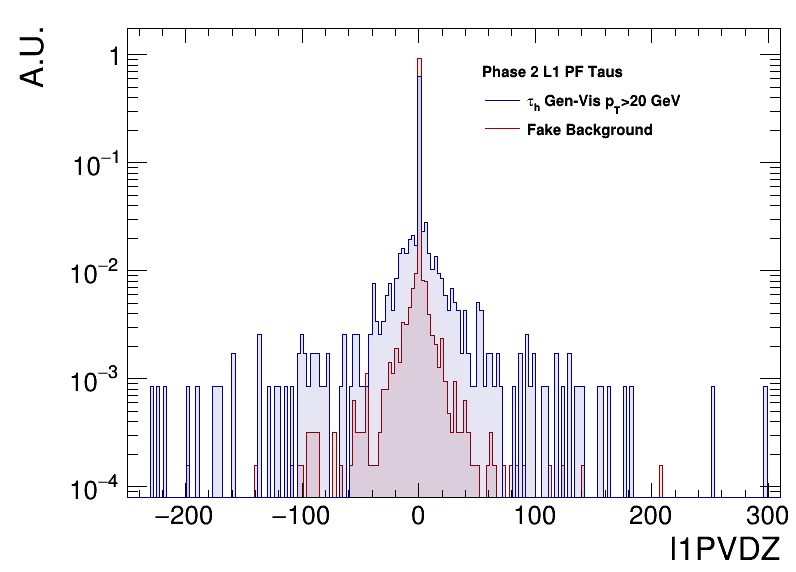
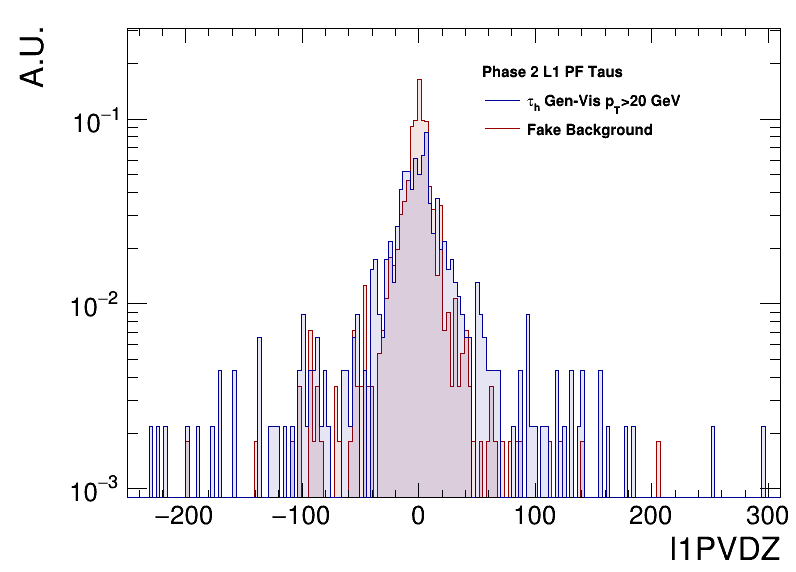
require l1Pt>0 in plots

diff --git a/tau_exercise/plot_tau_features/runValidationPlotsReprocess.C b/tau_exercise/plot_tau_features/runValidationPlotsReprocess.C
@@ -8,11 +8,13 @@ void runValidationPlotsReprocess()
   TString inputDirectory  = "/afs/cern.ch/work/s/skkwan/public/triggerDevel/jul2019_2/CMSSW_10_6_0_pre4/src/L1Trigger/phase2L1TauAnalyzer/test/analyzer-dyll.root";
   TString outputDirectory = "/afs/cern.ch/work/s/skkwan/public/triggerDevel/apr2019/CMSSW_10_5_0_pre1/src/L1Trigger/phase2L1BTagAnalyzer/tau_exercise/plot_tau_features/validationPlots/dyll/dyll_";
 
-  comparisonPlots("l1Pt", "genPt>20", "genPt<5", treePath, inputDirectory, outputDirectory, "l1Pt", 180, 0, 100);
-  comparisonPlots("l1Eta", "genPt>20", "genPt<5", treePath, inputDirectory, outputDirectory, "l1Eta", 100, -15, 4);
-  comparisonPlots("l1Phi", "genPt>20", "genPt<5", treePath, inputDirectory, outputDirectory, "l1Phi", 100, -15, 4);
-  comparisonPlots("l1TauZ", "genPt>20", "genPt<5", treePath, inputDirectory, outputDirectory, "l1TauZ", 200, -250, 310);
-  comparisonPlots("l1PVDZ", "genPt>20", "genPt<5", treePath, inputDirectory, outputDirectory, "l1PVDZ", 200, -250, 310);
+  TString sigCut="(genPt>20)&&(l1Pt>0)";
+  TString bkgCut="(genPt<5)&&(l1Pt>0)";
+  comparisonPlots("l1Pt", sigCut, bkgCut, treePath, inputDirectory, outputDirectory, "l1Pt", 150, 0, 100);
+  comparisonPlots("l1Eta", sigCut, bkgCut, treePath, inputDirectory, outputDirectory, "l1Eta", 100, -3, 3);
+  comparisonPlots("l1Phi", sigCut, bkgCut, treePath, inputDirectory, outputDirectory, "l1Phi", 100, -4, 4);
+  comparisonPlots("l1TauZ", sigCut, bkgCut, treePath, inputDirectory, outputDirectory, "l1TauZ", 180, -250, 310);
+  comparisonPlots("l1PVDZ", sigCut, bkgCut, treePath, inputDirectory, outputDirectory, "l1PVDZ", 180, -250, 310);
   // comparisonPlots("l1Time", "genPt>20", "genPt<5", treePath, inputDirectory, outputDirectory, "l1Time", 200, 2, 20);
   // l1Iso has the tau included in the sum so it must be removed
   // comparisonPlots("l1Iso-l1Pt", "genPt>20", "genPt<5", treePath, inputDirectory, outputDirectory, "l1Iso", 200, -10, 10);
@@ -38,7 +40,7 @@ void runValidationPlotsReprocess()
   comparisonPlots("track3Time", "genPt>20", "genPt<5", treePath, inputDirectory, outputDirectory, "track3Time", 200, 0, 22);
   */
   // Decay mode
-  comparisonPlots("l1DM", "genPt>20", "genPt<5", treePath, inputDirectory, outputDirectory, "l1DM", 50, -11, 12);
+  comparisonPlots("l1DM", sigCut, bkgCut, treePath, inputDirectory, outputDirectory, "l1DM", 20, -1, 12);
   // Chi Squared
   /*
   comparisonPlots("track1ChiSquared", "genPt>20", "genPt<5", treePath, inputDirectory, outputDirectory, "track1ChiSquared", 300, 0, 200);
@@ -46,7 +48,7 @@ void runValidationPlotsReprocess()
   comparisonPlots("track3ChiSquared", "genPt>20", "genPt<5", treePath, inputDirectory, outputDirectory, "track3ChiSquared", 300, 0, 180);
   */
   // zVTX
-  comparisonPlots("zVTX","genPt>20","genPt<5",treePath, inputDirectory, outputDirectory, "zVTX", 100, -17, 17);
+  comparisonPlots("zVTX", sigCut, bkgCut, treePath, inputDirectory, outputDirectory, "zVTX", 100, -17, 17);
   // Track Zs
   /*
   comparisonPlots("track1Z", "genPt>20", "genPt<5", treePath, inputDirectory, outputDirectory, "track1Z", 200, -30, 30);
@@ -54,10 +56,10 @@ void runValidationPlotsReprocess()
   comparisonPlots("track3Z", "genPt>20", "genPt<5", treePath, inputDirectory, outputDirectory, "track3Z", 200, -30, 30);
   */
   // Tau L1 Strip values
-  comparisonPlots("l1StripPt", "genPt>20", "genPt<5", treePath, inputDirectory, outputDirectory, "tauL1StripPt", 200, 0, 100);
-  comparisonPlots("l1StripEta", "genPt>20", "genPt<5", treePath, inputDirectory, outputDirectory, "tauL1StripEta", 100, -2, 2);
-  comparisonPlots("l1StripPhi", "genPt>20", "genPt<5", treePath, inputDirectory, outputDirectory, "tauL1StripPhi", 100, -2, 2);
-  comparisonPlots("l1StripDR", "genPt>20", "genPt<5", treePath, inputDirectory, outputDirectory, "tauL1StripDeltaR", 100, 0, 5);
+  comparisonPlots("l1StripPt", sigCut, bkgCut, treePath, inputDirectory, outputDirectory, "tauL1StripPt", 150, 0, 100);
+  comparisonPlots("l1StripEta", sigCut, bkgCut, treePath, inputDirectory, outputDirectory, "tauL1StripEta", 100, -2, 2);
+  comparisonPlots("l1StripPhi", sigCut, bkgCut, treePath, inputDirectory, outputDirectory, "tauL1StripPhi", 100, -2, 2);
+  comparisonPlots("l1StripDR", sigCut, bkgCut, treePath, inputDirectory, outputDirectory, "tauL1StripDeltaR", 100, 0, 5);
   // pfCand
   /*
   comparisonPlots("pfCand1HoE", "genPt>20", "genPt<5", treePath, inputDirectory, outputDirectory, "pfCand1HoE", 400, -11, 20);
